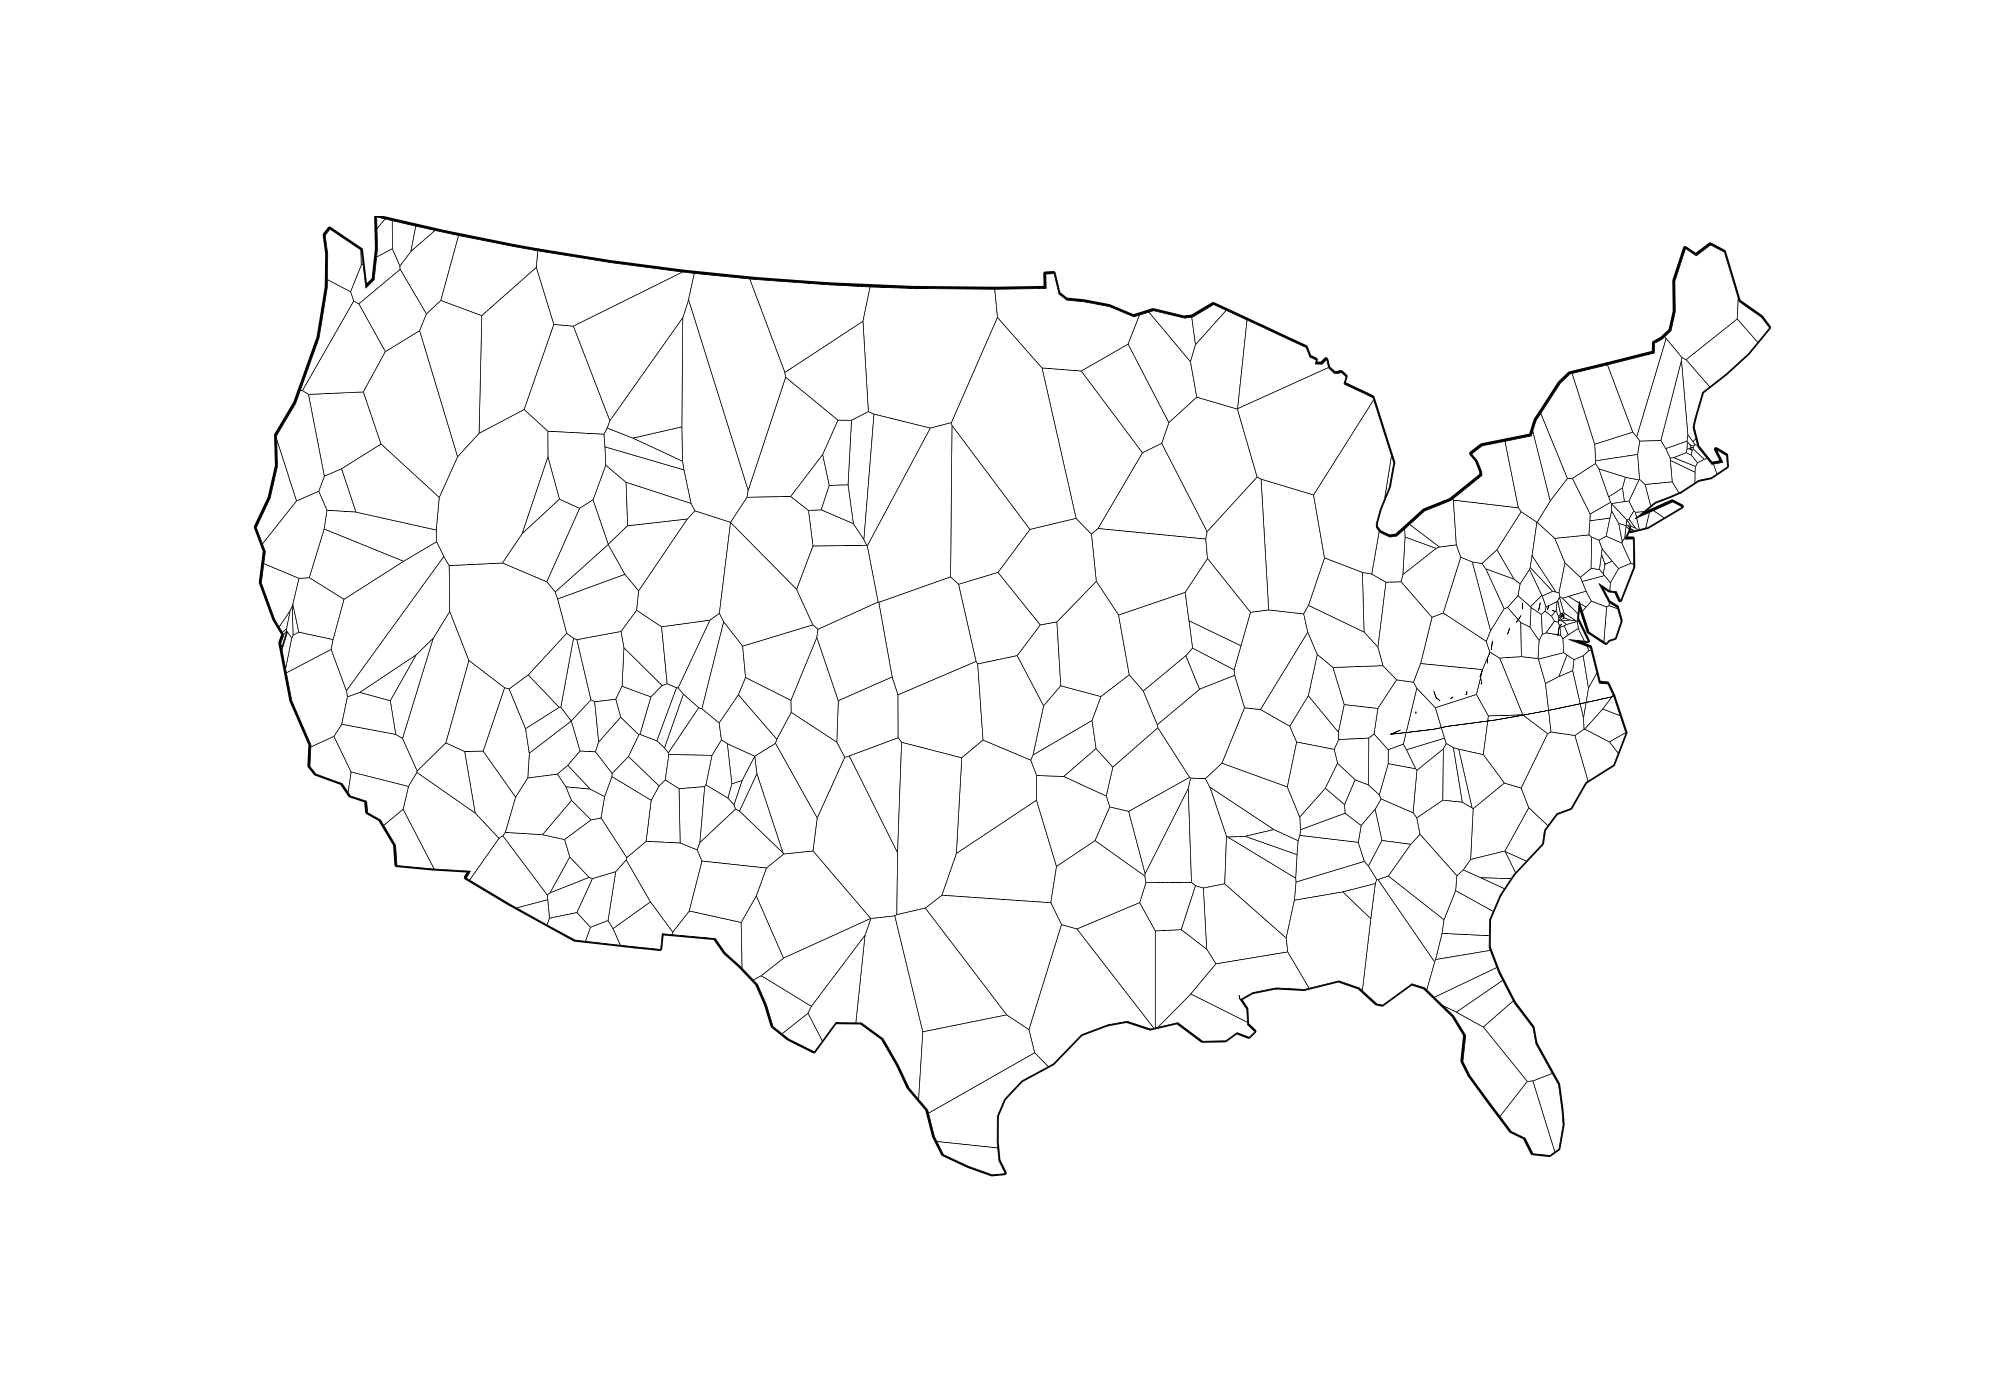
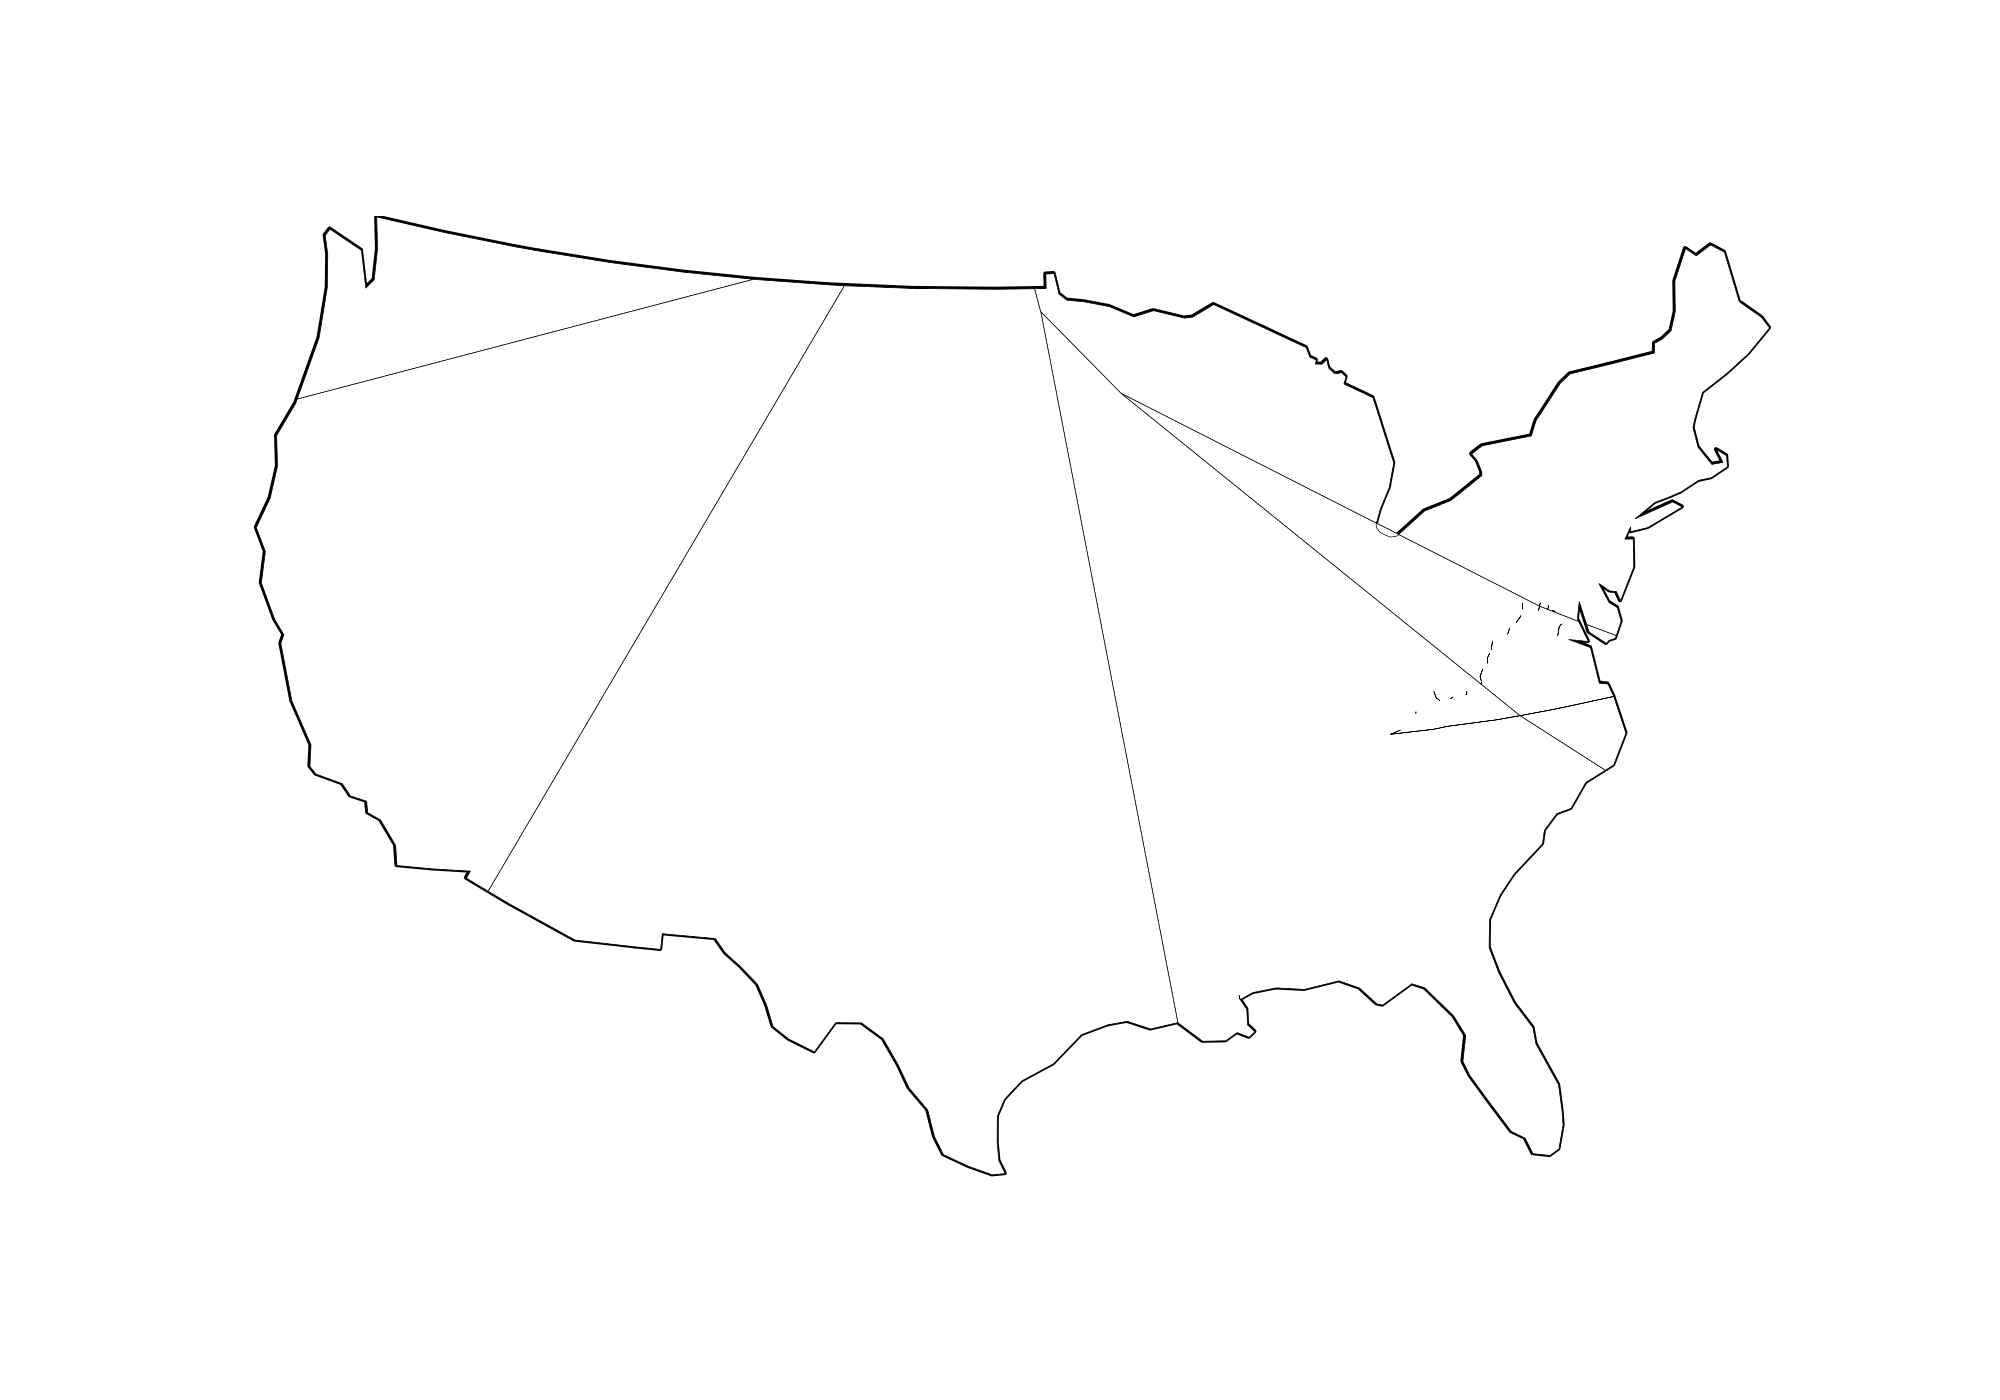
create iteration for mapping NPS sites visited over time

diff --git a/main.py b/main.py
@@ -7,20 +7,40 @@ import geoplot
 # Import shapely to convert string lat-longs to Point objects
 from shapely.geometry import Point
 
+def plot_voronoi(i):
+    # Setup the Voronoi axes; this creates the Voronoi regions
+    ax = geoplot.voronoi(
+        gdf, # Define the GeoPandas DataFrame
+        figsize=(20,14), # Define resolution of figure
+        hue='values', # df column used to color regions
+        clip=USA,  # Define the voronoi clipping (map edge) -TODO VA source here?
+        projection=proj, # Define the Projection
+        cmap='Greys', # color set
+        # k=None, # No. of discretized buckets to create
+        legend=False, # Dont create a legend
+        edgecolor='#000000', # Color of the voronoi boundaries
+        linewidth=0.5 # width of the voronoi boundary lines
+        )
+
+    # Render the plot with a base map
+    geoplot.polyplot(USA,  # Base Map
+                    ax=ax,  # Axis attribute we created above
+                    extent=[-120, 25, -73, 49], # extent=USA.total_bounds,  # Set plotting boundaries to base map boundaries
+                    edgecolor='black',  # Color of base map's edges
+                    linewidth=3,  # Width of base map's edge lines
+                    zorder=1  # Plot base map edges above the voronoi regions
+                    )
+
+    plt.savefig(f'plots/nps_segments_{i}.png')
+
 # CSV into DataFrame
 # df = pd.read_table("trial.csv", delimiter =",")
 df = pd.read_table("nps.csv", delimiter =",")
 # df['name'] = df['name'].astype("string") # which will by default set the length to the max len it encounters
 # print(df.tail())
 
-# Assumes data stored in pandas DataFrame df
-geometry = [Point(xy) for xy in zip(df.longitude, df.latitude)]
-# print(geometry)
-df['geometry'] = geometry
-gdf = geopandas.GeoDataFrame(df, geometry=df.geometry)
+
 # gdf.set_geometry('geometry', inplace=True)
-print(gdf.geometry)
-print(gdf.tail())
 
 # Import USA data for region clipping
 USA = geopandas.read_file(geoplot.datasets.get_path('contiguous_usa'))
@@ -30,26 +50,22 @@ USA = geopandas.read_file(geoplot.datasets.get_path('contiguous_usa'))
 # Set the map projection
 proj = geoplot.crs.AlbersEqualArea(central_longitude=-98, central_latitude=39.5)
 
-# Setup the Voronoi axes; this creates the Voronoi regions
-ax = geoplot.voronoi(gdf, # Define the GeoPandas DataFrame
-                     figsize=(20,14), # Define resolution of figure
-                     hue='values', # df column used to color regions
-                     clip=USA,  # Define the voronoi clipping (map edge) -TODO VA source here?
-                     projection=proj, # Define the Projection
-                     cmap='Greys', # color set
-                     # k=None, # No. of discretized buckets to create
-                     legend=False, # Dont create a legend
-                     edgecolor='#000000', # Color of the voronoi boundaries
-                     linewidth=0.5 # width of the voronoi boundary lines
-                    )
+counter = 0
+for index, row in df.iterrows():
+    if row['date'] != "NAN":
+        df.at[index,'values'] = 1
 
-# Render the plot with a base map
-geoplot.polyplot(USA,  # Base Map
-                 ax=ax,  # Axis attribute we created above
-                 extent=[-120, 25, -73, 49], # extent=USA.total_bounds,  # Set plotting boundaries to base map boundaries
-                 edgecolor='black',  # Color of base map's edges
-                 linewidth=3,  # Width of base map's edge lines
-                 zorder=1  # Plot base map edges above the voronoi regions
-                )
+        print(df['name'], df['values'])
 
-plt.savefig('nps_segments.png')
+        # Assumes data stored in pandas DataFrame df
+        geometry = [Point(xy) for xy in zip(df.longitude, df.latitude)]
+        # print(geometry)
+        df['geometry'] = geometry
+        gdf = geopandas.GeoDataFrame(df, geometry=df.geometry)
+
+        counter += 1
+        plot_voronoi(counter)
+
+        df.at[index,'values'] = 0.75
+
+print(gdf)
